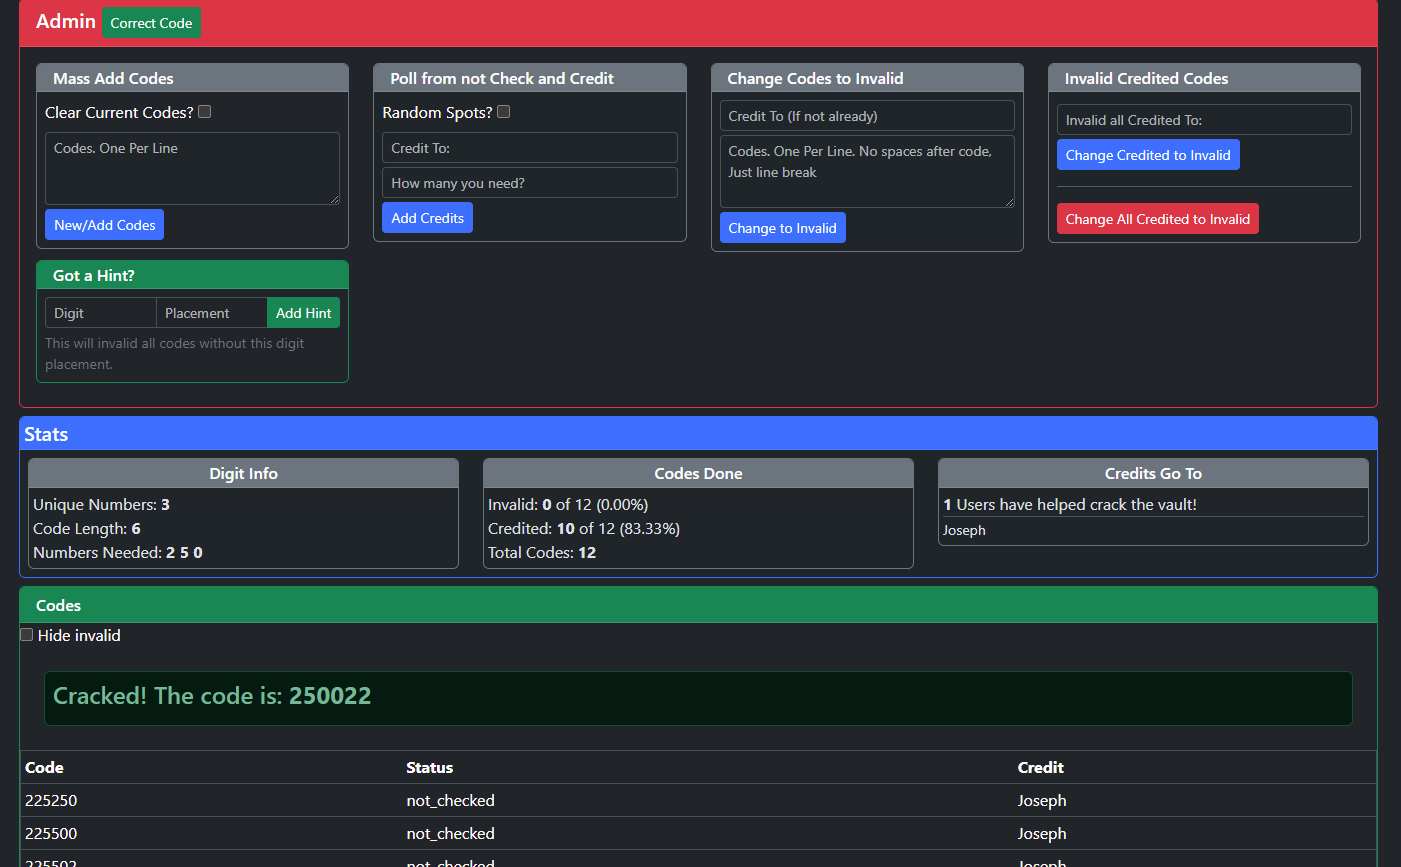
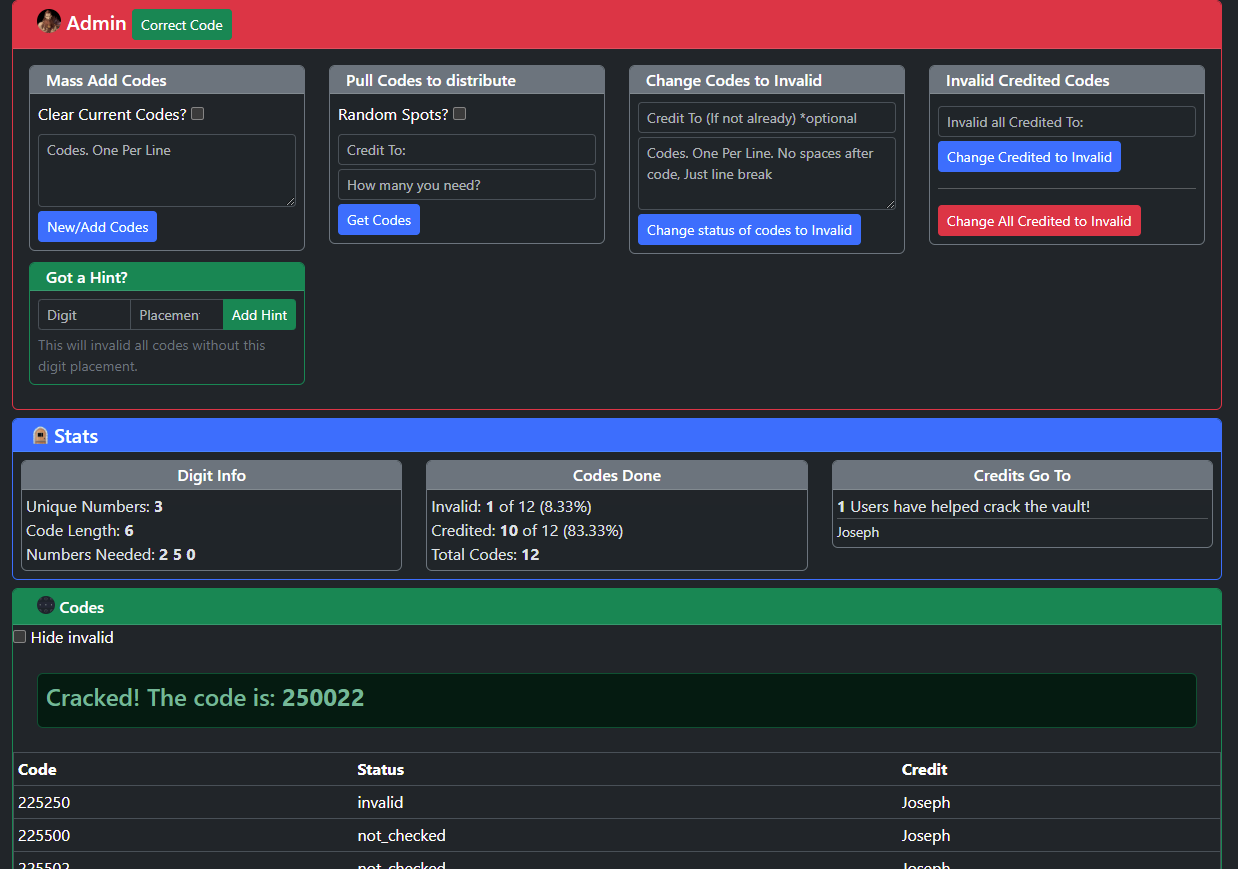
reword and new screenshot

diff --git a/_admin_forms.html b/_admin_forms.html
@@ -36,7 +36,7 @@
           <div class="col-lg-3 col-md-6 mb-2">
             <div class="card p-0 border border-secondary bg-dark text-white">
               <h6 class="card-header bg-secondary text-white py-1">
-                Poll from not Check and Credit
+                Pull Codes to distribute
               </h6>
               <div class="card-body p-2">
                 <form action="?admin" method="POST">
@@ -48,7 +48,7 @@
                   <input class="form-control form-control-sm mb-1" type="number" step="1" name="numberOfCodes"
                     placeholder="How many you need?" required />
                   <button class="btn btn-sm btn-primary" type="submit">
-                    Add Credits
+                    Get Codes
                   </button>
                 </form>
               </div>
@@ -65,11 +65,11 @@
                   <input class="form-control form-control-sm mb-1" type="hidden" name="invalidCodes"
                     value="invalidCodes" />
                   <input class="form-control form-control-sm mb-1" name="creditTo"
-                    placeholder="Credit To (If not already)" />
+                    placeholder="Credit To (If not already) *optional" />
                   <textarea class="form-control form-control-sm mb-1" name="codes"
                     placeholder="Codes. One Per Line. No spaces after code, Just line break" rows='3' required></textarea>
                   <button class="btn btn-sm btn-primary" type="submit">
-                    Change to Invalid
+                    Change status of codes to Invalid
                   </button>
                 </form>
               </div>
